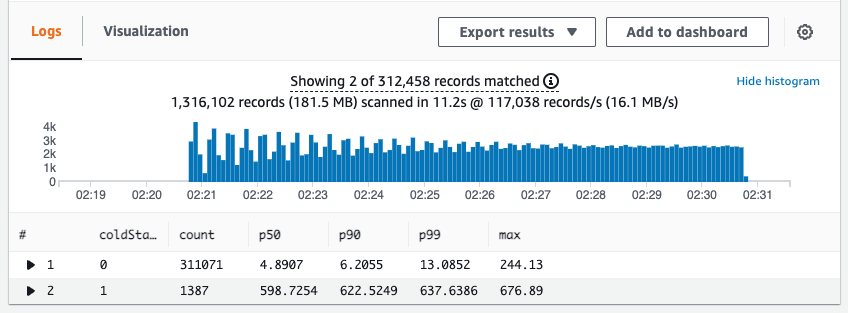
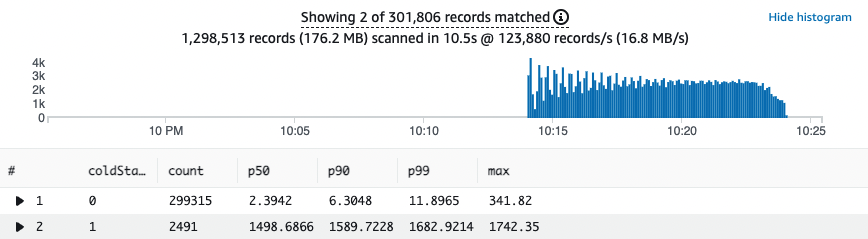
corrected copy and paste errors from graalvm main branch

diff --git a/infrastructure/src/main/java/software/amazonaws/example/infrastructure/JVMInfrastructureStack.java b/infrastructure/src/main/java/software/amazonaws/example/infrastructure/JVMInfrastructureStack.java
@@ -20,13 +20,10 @@ import software.amazon.awscdk.services.dynamodb.Table;
 import software.amazon.awscdk.services.lambda.Architecture;
 import software.amazon.awscdk.services.lambda.Code;
 import software.amazon.awscdk.services.lambda.Function;
-import software.amazon.awscdk.services.lambda.LayerVersion;
-import software.amazon.awscdk.services.lambda.LayerVersionProps;
 import software.amazon.awscdk.services.lambda.Runtime;
 import software.amazon.awscdk.services.lambda.Tracing;
 import software.amazon.awscdk.services.logs.RetentionDays;
 
-import java.util.Arrays;
 import java.util.HashMap;
 import java.util.Map;
 
@@ -52,16 +49,9 @@ public class JVMInfrastructureStack extends Stack {
                 .billingMode(BillingMode.PAY_PER_REQUEST)
                 .build();
 
-        LayerVersion optimizationLayer = new LayerVersion(this, "OptimizationLayer", LayerVersionProps.builder()
-                .layerVersionName("OptimizationLayer")
-                .description("Enable tiered compilation")
-                .compatibleRuntimes(Arrays.asList(Runtime.JAVA_11, Runtime.JAVA_8_CORRETTO))
-                .code(Code.fromAsset("../software/OptimizationLayer/layer.zip"))
-                .build());
-
         Map<String, String> environmentVariables = new HashMap<>();
         environmentVariables.put("PRODUCT_TABLE_NAME", productsTable.getTableName());
-        environmentVariables.put("AWS_LAMBDA_EXEC_WRAPPER", "/opt/java-exec-wrapper");
+        environmentVariables.put("JAVA_TOOL_OPTIONS", "-XX:+TieredCompilation -XX:TieredStopAtLevel=1");
 
         Function getProductFunction = Function.Builder.create(this, "GetProductFunction")
                 .runtime(Runtime.JAVA_11)
@@ -72,7 +62,6 @@ public class JVMInfrastructureStack extends Stack {
                 .logRetention(RetentionDays.ONE_WEEK)
                 .tracing(Tracing.ACTIVE)
                 .architecture(Architecture.ARM_64)
-                .layers(singletonList(optimizationLayer))
                 .build();
 
         Function getAllProductFunction = Function.Builder.create(this, "GetAllProductFunction")
@@ -84,7 +73,6 @@ public class JVMInfrastructureStack extends Stack {
                 .logRetention(RetentionDays.ONE_WEEK)
                 .tracing(Tracing.ACTIVE)
                 .architecture(Architecture.ARM_64)
-                .layers(singletonList(optimizationLayer))
                 .build();
 
         Function putProductFunction = Function.Builder.create(this, "PutProductFunction")
@@ -96,7 +84,6 @@ public class JVMInfrastructureStack extends Stack {
                 .logRetention(RetentionDays.ONE_WEEK)
                 .tracing(Tracing.ACTIVE)
                 .architecture(Architecture.ARM_64)
-                .layers(singletonList(optimizationLayer))
                 .build();
 
         Function deleteProductFunction = Function.Builder.create(this, "DeleteProductFunction")
@@ -108,7 +95,6 @@ public class JVMInfrastructureStack extends Stack {
                 .logRetention(RetentionDays.ONE_WEEK)
                 .tracing(Tracing.ACTIVE)
                 .architecture(Architecture.ARM_64)
-                .layers(singletonList(optimizationLayer))
                 .build();
 
         productsTable.grantReadData(getProductFunction);

diff --git a/infrastructure/src/main/java/software/amazonaws/example/infrastructure/InfrastructureApp.java b/infrastructure/src/main/java/software/amazonaws/example/infrastructure/InfrastructureApp.java
@@ -11,13 +11,6 @@ public class InfrastructureApp {
     public static void main(final String[] args) {
         App app = new App();
 
-//        new InfrastructureStack(app, "GraalVMPerfTestStack", StackProps.builder()
-//                .env(Environment.builder()
-//                        .account(System.getenv("CDK_DEFAULT_ACCOUNT"))
-//                        .region(System.getenv("CDK_DEFAULT_REGION"))
-//                        .build())
-//                .build());
-
         new JVMInfrastructureStack(app, "JVMPerfTestStack", StackProps.builder()
                 .env(Environment.builder()
                         .account(System.getenv("CDK_DEFAULT_ACCOUNT"))

diff --git a/software/products/src/main/java/software/amazonaws/example/product/store/dynamodb/DynamoDbProductStore.java b/software/products/src/main/java/software/amazonaws/example/product/store/dynamodb/DynamoDbProductStore.java
@@ -37,7 +37,6 @@ public class DynamoDbProductStore implements ProductStore {
             .credentialsProvider(EnvironmentVariableCredentialsProvider.create())
             .region(Region.of(System.getenv(SdkSystemSetting.AWS_REGION.environmentVariable())))
             .httpClient(AwsCrtAsyncHttpClient.builder()
-                    .maxConcurrency(50)
                     .build())
             .build();
 

diff --git a/README.md b/README.md
@@ -6,9 +6,9 @@
   <img src="imgs/diagram.png" alt="Architecture diagram"/>
 </p>
 
-This is a simple serverless application built in Java and uses the GraalVM native-image tool. It consists of an 
-[Amazon API Gateway](https://aws.amazon.com/api-gateway/) backed by four [AWS Lambda](https://aws.amazon.com/lambda/) 
-functions and an [Amazon DynamoDB](https://aws.amazon.com/dynamodb/) table for storage. 
+This is a simple serverless application built in Java. It consists of an
+[Amazon API Gateway](https://aws.amazon.com/api-gateway/) backed by four [AWS Lambda](https://aws.amazon.com/lambda/)
+functions and an [Amazon DynamoDB](https://aws.amazon.com/dynamodb/) table for storage.
 
 ## Requirements
 
@@ -20,22 +20,17 @@ functions and an [Amazon DynamoDB](https://aws.amazon.com/dynamodb/) table for s
 
 ## Software
 
-Within the software folder is the products maven project. This single maven project contains all the code for all four Lambda 
-functions. It uses the hexagonal architecture pattern to decouple the entry points, from the main domain logic and the 
-storage logic.
+Within the software folder is the products maven project. This single maven project contains all the code for all four
+Lambda functions. It uses the hexagonal architecture pattern to decouple the entry points, from the main domain logic
+and the storage logic.
 
-### Custom Runtime
+### Build
 
-The GraalVM native-image tool will produce a stand-alone executable binary. This does not require the JVM to run. To
-run our application on Lambda we must make a [custom runtime](https://docs.aws.amazon.com/lambda/latest/dg/runtimes-custom.html)
-and implement the [Lambda Runtime API](https://docs.aws.amazon.com/lambda/latest/dg/runtimes-api.html).
-This is done my including the `aws-lambda-java-runtime-interface-client` dependency in our project. The [maven assembly
-build plugin](https://github.com/aws-samples/serverless-graalvm-demo/blob/main/software/products/src/assembly/zip.xml)
-is used to create a zip file which includes the executable binary as well as the entry point [bootstrap](https://github.com/aws-samples/serverless-graalvm-demo/blob/main/software/products/src/main/config/bootstrap) file.
+Build the software with Maven
 
-<p align="center">
-  <img src="imgs/execution-environment.png" alt="AWS Lambda execution environment"/>
-</p>
+```bash
+mvn clean package
+```
 
 ## Infrastructure
 
@@ -47,15 +42,15 @@ Deploy the demo to your AWS account using [AWS CDK](https://aws.amazon.com/cdk/)
 cdk deploy
 ```
 
-The command `cdk deploy` will first build the products maven project using a docker build image with all the required GraalVM tools.
-Then it will use AWS CloudFormation to deploy the resources to your account.
+The command `cdk deploy` will use the .jar file from the software folder. Then it will use AWS CloudFormation to deploy
+the resources to your account.
 
 CDK will create an output of the API Gateway endpoint URL for future use in our load tests.
 
 ## Load Test
 
-[Artillery](https://www.artillery.io/) is used to make 300 requests / second for 10 minutes to our API endpoints. You can run this
-with the following command.
+[Artillery](https://www.artillery.io/) is used to make 300 requests / second for 10 minutes to our API endpoints. You
+can run this with the following command.
 
 ```bash
 cd load-test
@@ -84,7 +79,7 @@ filter @type="REPORT"
 
 You can find implementations of this project in other languages here:
 
-* [🦀  Rust](https://github.com/aws-samples/serverless-rust-demo)
+* [🦀 Rust](https://github.com/aws-samples/serverless-rust-demo)
 
 ## Security
 
